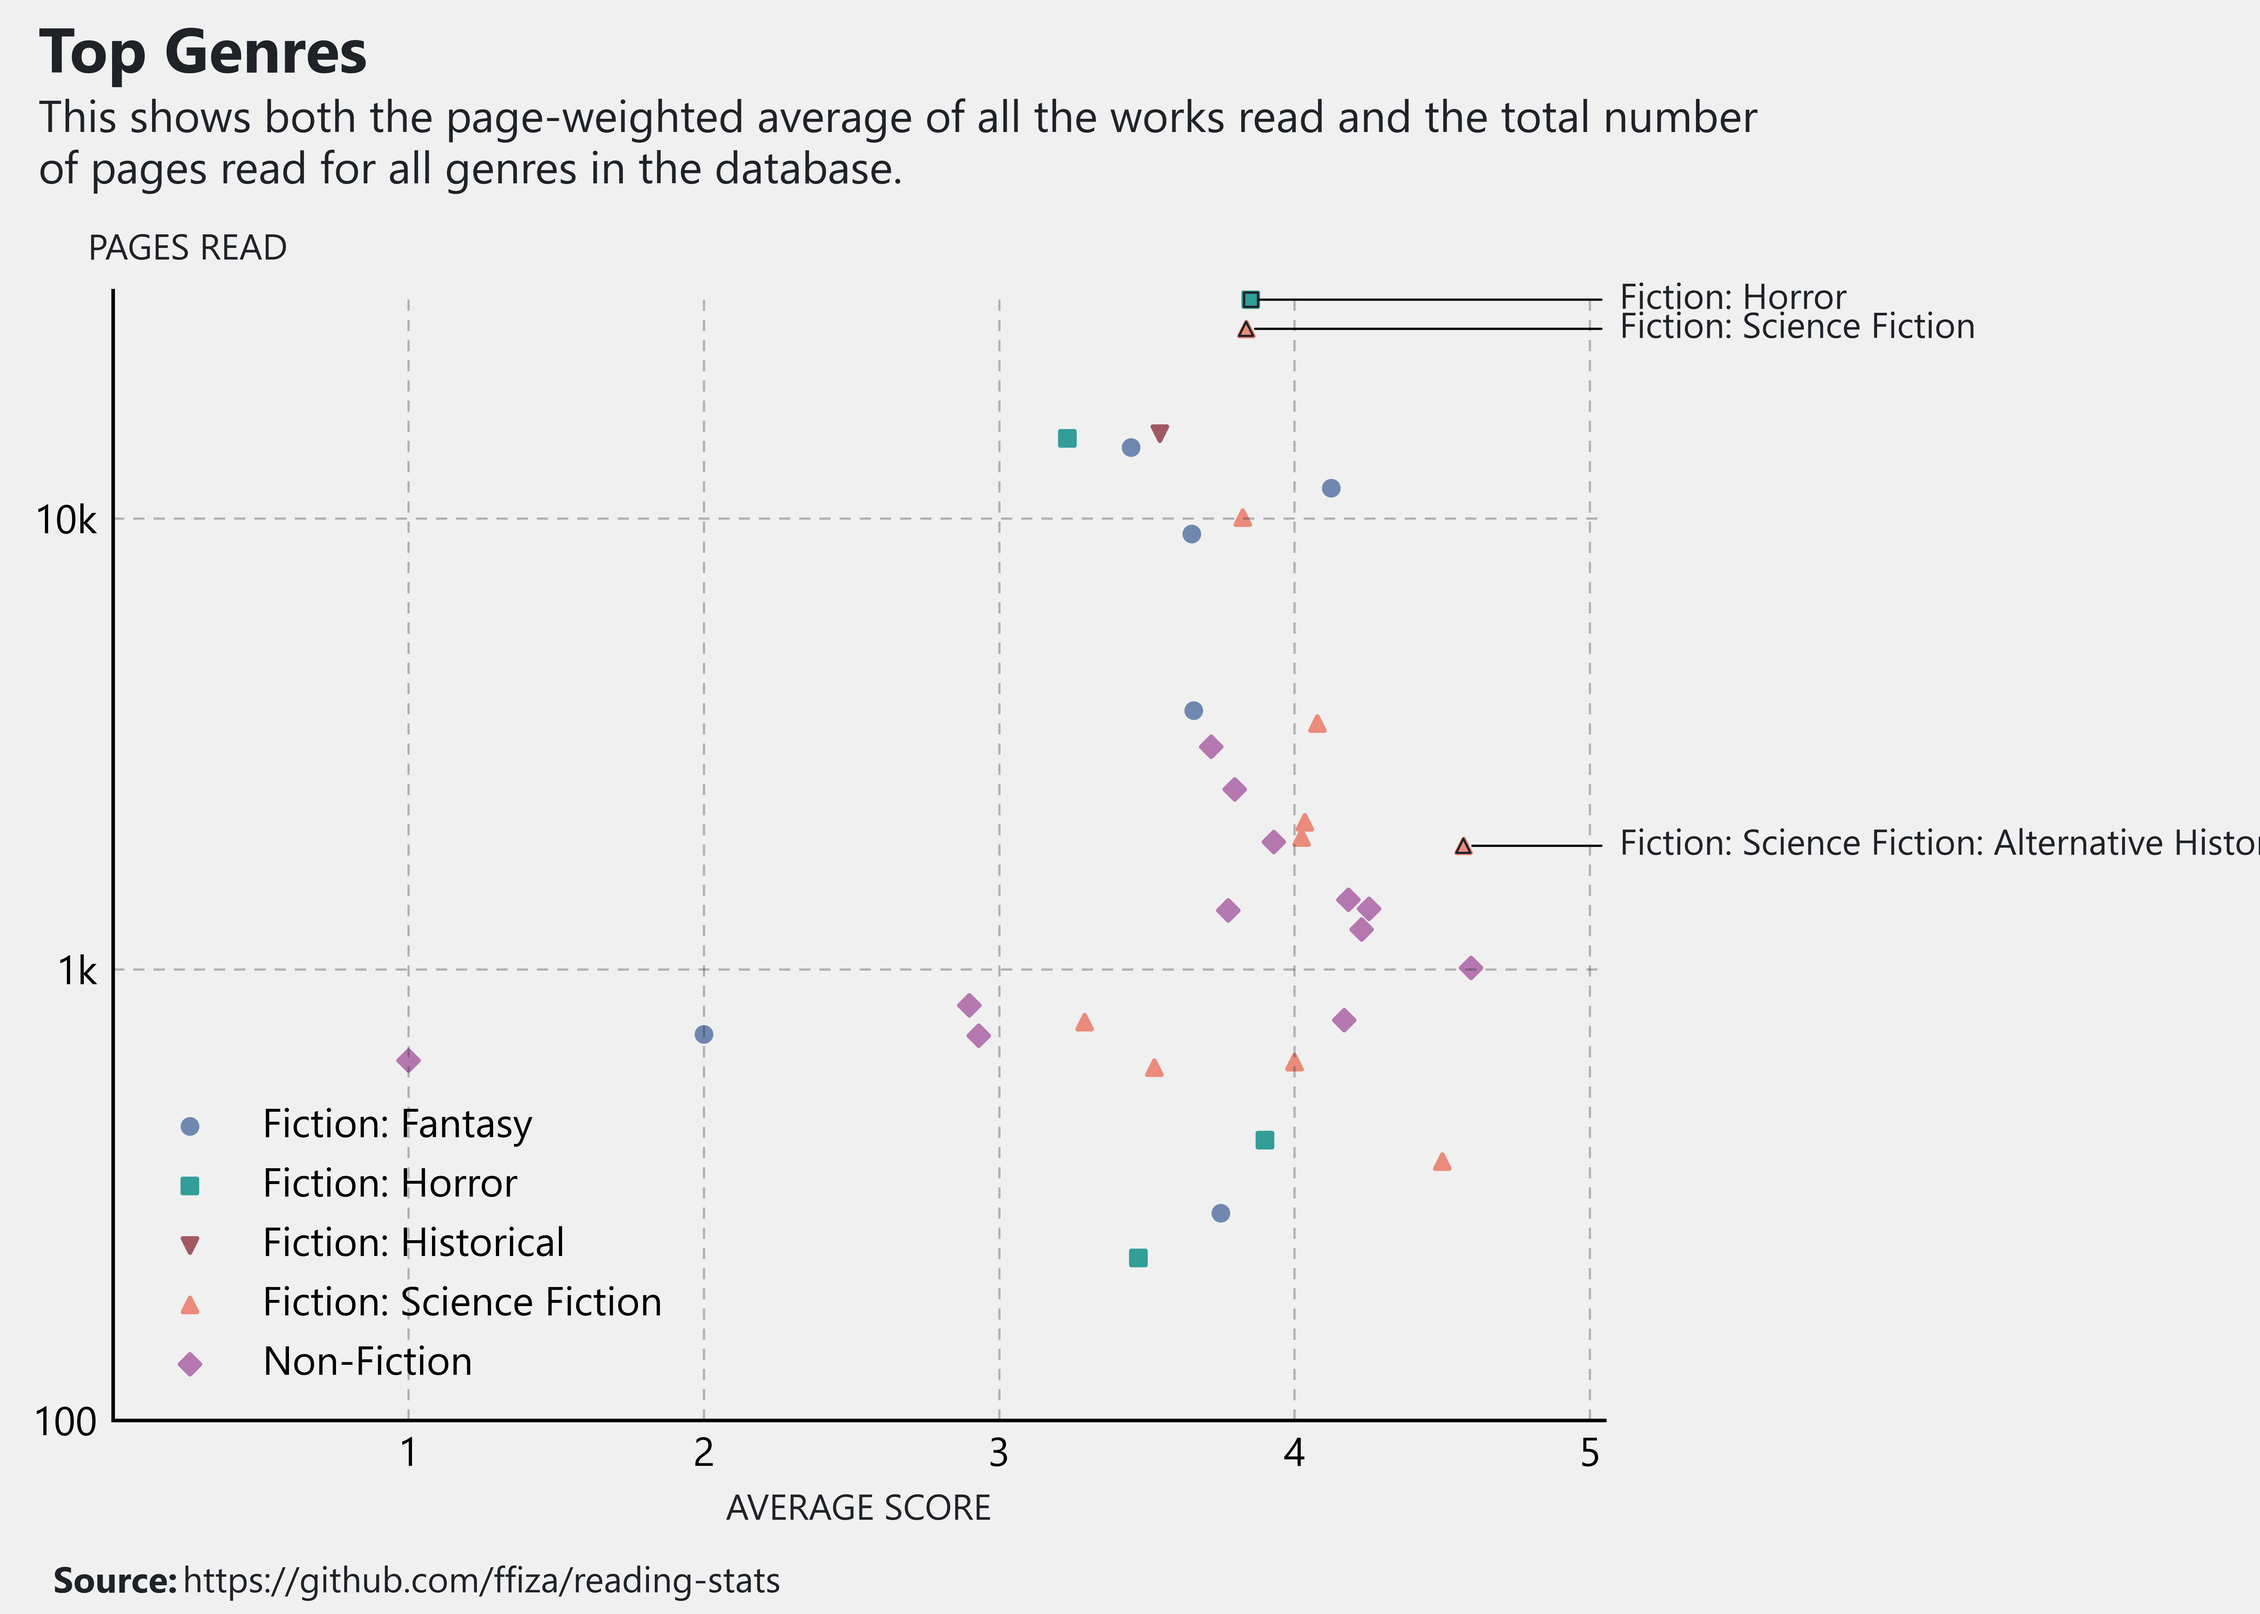
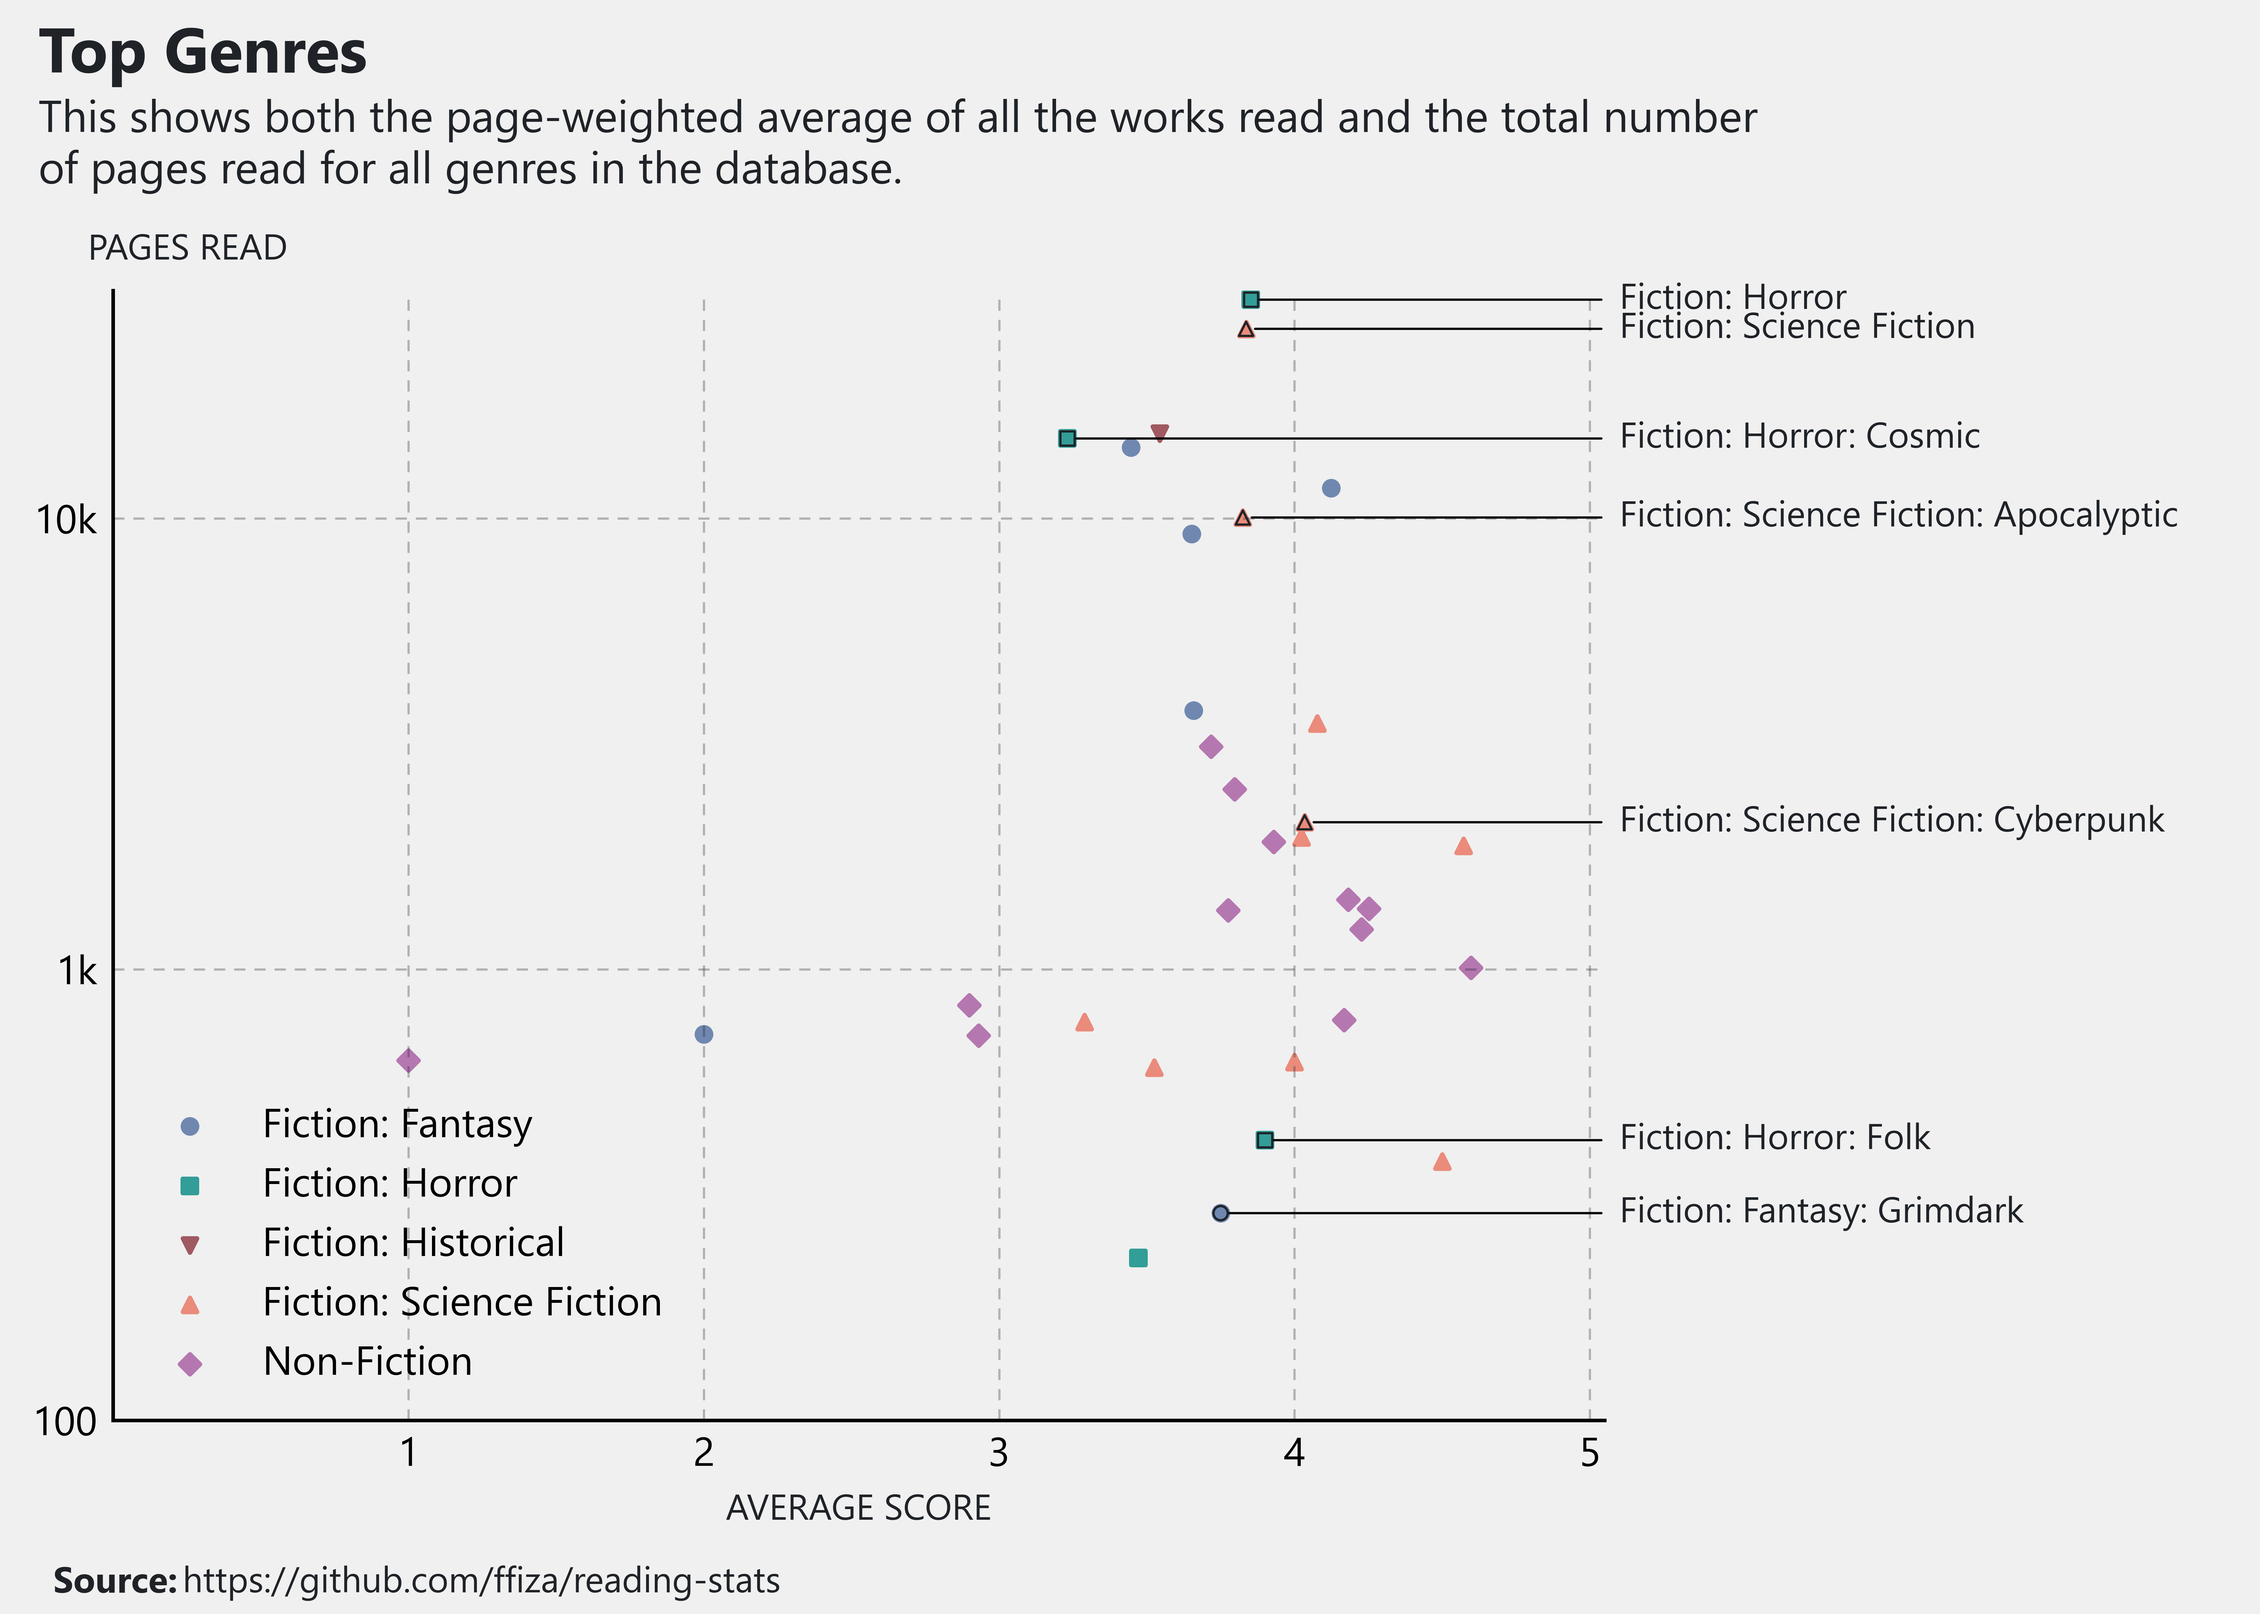
Improve genres scatter figure.

diff --git a/reports/genres_scatter.py b/reports/genres_scatter.py
@@ -8,7 +8,11 @@ from reading_stats.export.genres import export_genres_stats
 GENRES_TO_HIGHLIGHT = [
     "Fiction: Science Fiction",
     "Fiction: Horror",
-    "Fiction: Science Fiction: Alternative History"
+    "Fiction: Horror: Cosmic",
+    "Fiction: Fantasy: Grimdark",
+    "Fiction: Science Fiction: Cyberpunk",
+    "Fiction: Horror: Folk",
+    "Fiction: Science Fiction: Apocalyptic"
 ]
 
 
